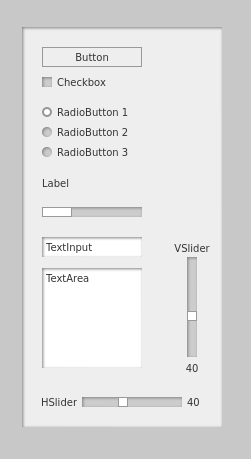
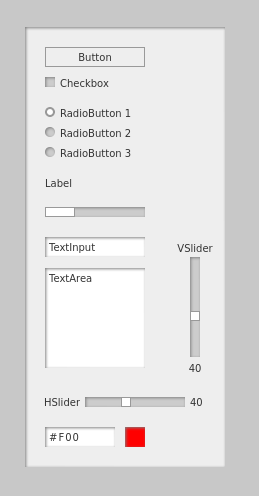
finish up color picker

Changed region(s): [[0.1673, 0.0915, 0.8367, 0.8235], [0.0837, 0.0305, 0.8924, 0.9455], [0.753, 0.854, 0.8088, 0.8845]]

diff --git a/demos/globaldemo/main.js b/demos/globaldemo/main.js
@@ -1,5 +1,5 @@
 
-const panel = new mc2.Panel(document.body, 40, 40, 200, 400);
+const panel = new mc2.Panel(document.body, 40, 40, 200, 440);
 
 new mc2.Button(panel, 20, 20, "Button")
 new mc2.Checkbox(panel, 20, 50, "Checkbox");
@@ -12,3 +12,4 @@ new mc2.TextInput(panel, 20, 210, "TextInput");
 new mc2.TextArea(panel, 20, 240, "TextArea");
 new mc2.HSlider(panel, 60, 370, 40, 0, 100).addLabels("HSlider");
 new mc2.VSlider(panel, 165, 230, 40, 0, 100).addLabels("VSlider");
+new mc2.ColorPicker(panel, 20, 400, "#f00");

diff --git a/README.md b/README.md
@@ -45,6 +45,7 @@ So far we have the following components:
 - TextArea
 - HSlider
 - VSlider
+- ColorPicker
 
 More to come.
 
